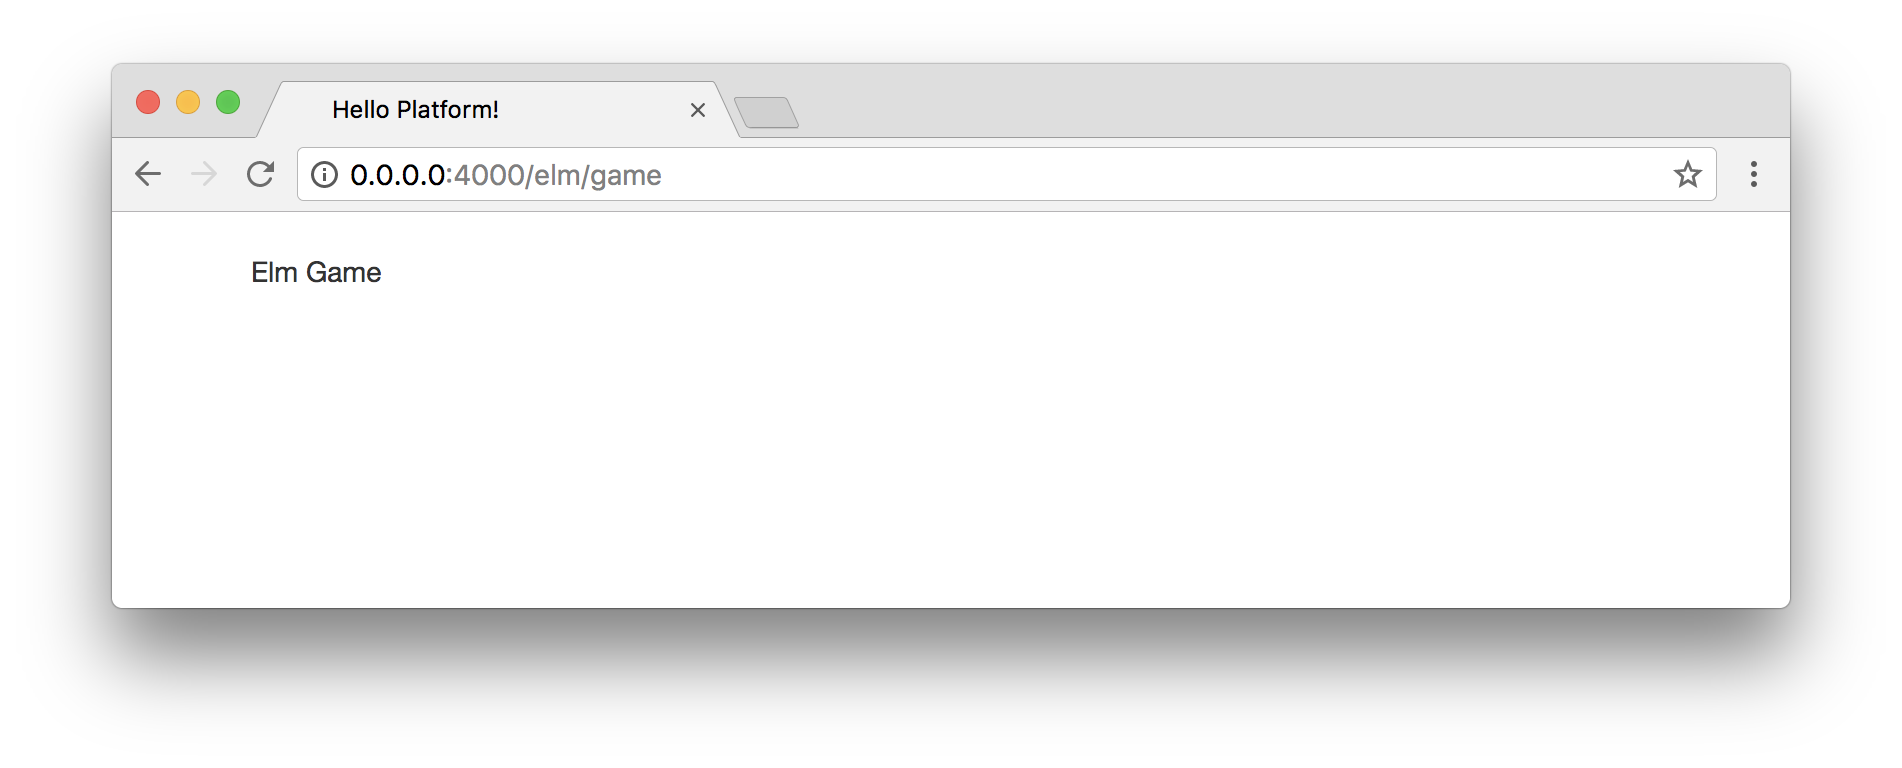
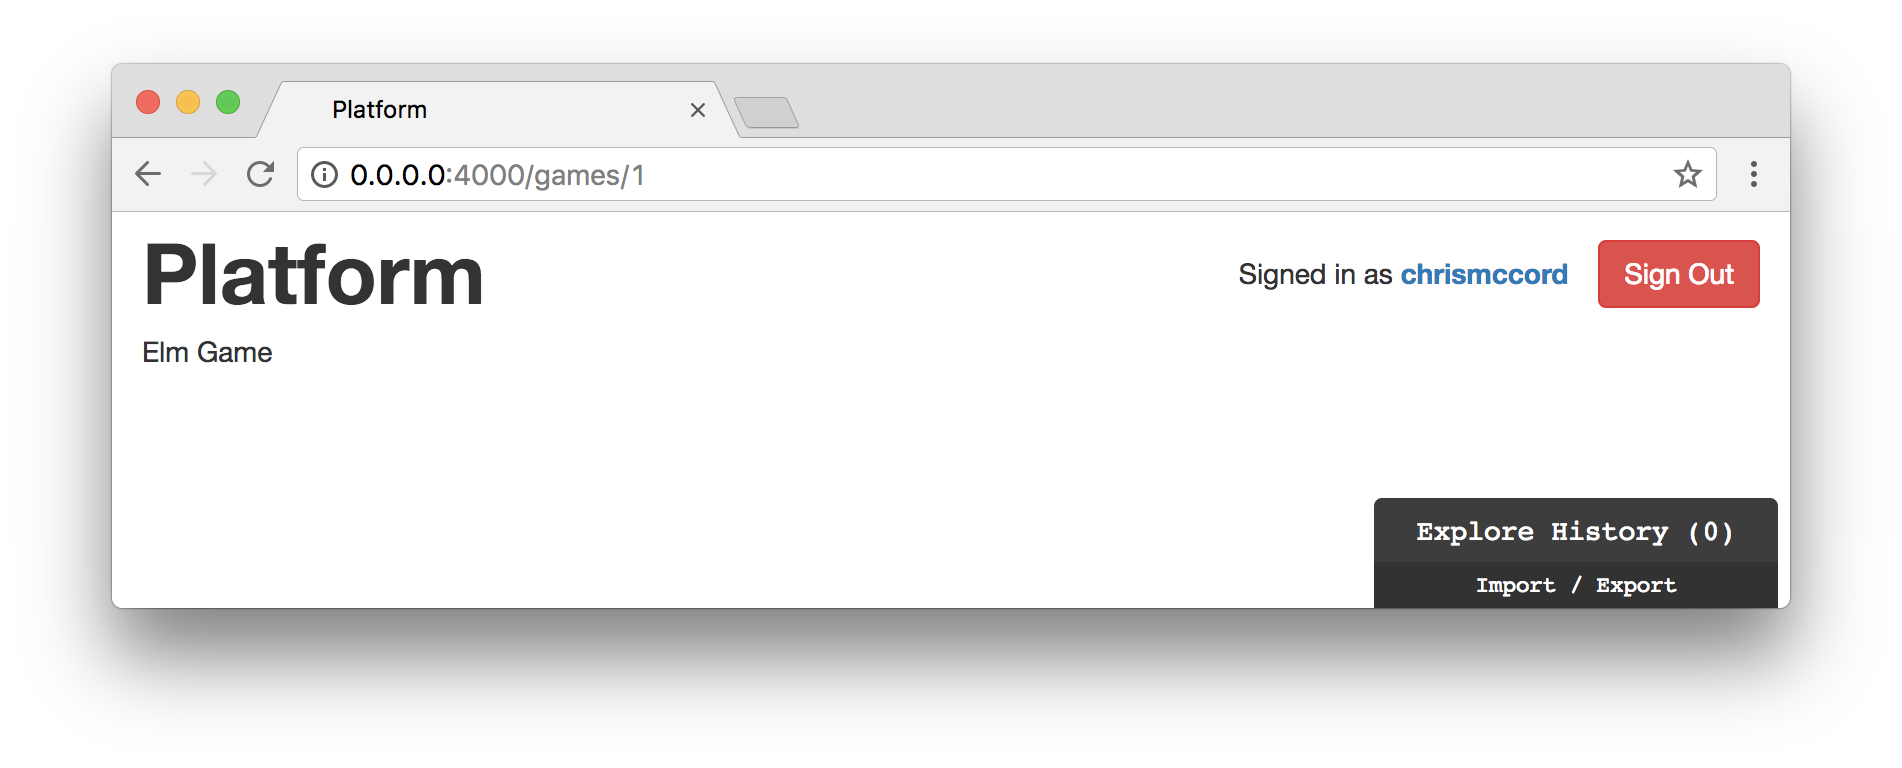
Updating elm game content

diff --git a/manuscript/our_first_game.md b/manuscript/our_first_game.md
@@ -4,18 +4,22 @@ Let's start creating our first minigame with Elm. We want to begin with
 something small and simple that still has the characteristics we want for all
 of our games.
 
-Our initial game should be (really) small, self-contained, interactive, and
-fun. And we'll also want to add a simple scoring mechanism so we can work
-towards tracking player scores and sending that data to our back-end platform.
+Our initial game should be small, self-contained, interactive, and fun. And
+we'll also want to add a simple scoring mechanism so we can work towards
+tracking player scores and sending that data to our back-end platform.
 
 ## Creating an Initial Game File
 
-Inside the `lib/platform/web/elm` folder, let's create a new file named
-`Game.elm`. We can initialize it with the following code so we'll have
+While we were creating the JSON API for our games, we created a sample game
+called `Platformer`. Now, we can use that same title as our Elm module name so
+we can sync up the assets we generate between the front-end and back-end.
+
+Inside the `assets/elm` folder, let's create a new file named
+`Platformer.elm`. We can initialize it with the following code so we'll have
 something to display on the page:
 
 ```elm
-module Game exposing (..)
+module Platformer exposing (..)
 
 import Html exposing (..)
 
@@ -28,114 +32,92 @@ main =
 ## Creating a New Page for Games
 
 On the Phoenix side, we'll need to create a new page where we can display our
-game. We'll start by manually creating a new page and route, and later we'll
-work towards a more flexible approach.
-
-Inside the `lib/platform/web/templates/page` folder, let's create a new file
-called `game.html.eex`. This will be similar to what we did for our Elm home
-page, and this time we'll just be creating a container div element for our Elm
-game. This is all we need to add for the `game.html.eex` file:
+game. Inside the `lib/platform_web/templates` folder, create a new folder
+called `game`. Then, let's create a new file called `show.html.eex`. This will
+be similar to what we did for our Elm home page, and this time we'll create
+another container `div` element for our Elm game. This is all we need to add
+for the `show.html.eex` file:
 
 ```embedded_elixir
-<div class="elm-game-container"></div>
+<div id="elm-game-container"></div>
 ```
 
-Now let's update our `router.ex` file inside the `lib/platform/web` folder.
-For now, we can add a simple route so that users can access our game by going
-to `/elm/game` in the browser. Update the browser scope inside the `router.ex`
-file with the following:
+We'll also need to add to our `lib/platform_web/controllers/game_controller.ex`
+file. We already have a `show/2` function that responds to JSON requests. Now,
+let's add another function called `play/2` just below it to display a game in
+the browser.
 
 ```elixir
-scope "/", Platform.Web do
+def show(conn, %{"id" => id}) do
+  game = Products.get_game!(id)
+  render(conn, "show.json", game: game)
+end
+
+def play(conn, %{"id" => id}) do
+  game = Products.get_game!(id)
+  render(conn, "show.html", game: game)
+end
+```
+
+Now, let's update our `router.ex` file inside the `lib/platform_web` folder.
+For now, we can add a simple route so that users can access our game by going
+to `/games/1` in the browser. Update the `:browser` scope inside the
+`router.ex` file with the following:
+
+```elixir
+scope "/", PlatformWeb do
   pipe_through :browser
 
-  get "/", PlayerController, :new
-  get "/elm", PageController, :index
-  get "/elm/game", PageController, :game
+  get "/", PageController, :index
+  get "/games/:id", GameController, :play
   resources "/players", PlayerController
   resources "/sessions", PlayerSessionController, only: [:new, :create, :delete]
 end
 ```
 
 We'll be able to view the Elm game that we're creating when we visit
-`http://0.0.0.0:4000/elm/game` in our browser, but we still need to take a
+`http://0.0.0.0:4000/games/1` in our browser, but we still need to take a
 couple more steps before this will work.
-
-Let's update our `PageController` with a function that will render our new game
-page. In the `lib/platform/web/controllers` folder, update the
-`page_controller.ex` file with the following:
-
-```elixir
-defmodule Platform.Web.PageController do
-  use Platform.Web, :controller
-
-  plug :authenticate when action in [:index]
-
-  def index(conn, _params) do
-    render conn, "index.html"
-  end
-
-  def game(conn, _params) do
-    render conn, "game.html"
-  end
-
-  defp authenticate(conn, _opts) do
-    if conn.assigns.current_user() do
-      conn
-    else
-      conn
-      |> put_flash(:error, "You must be logged in to access that page.")
-      |> redirect(to: player_path(conn, :new))
-      |> halt()
-    end
-  end
-end
-```
 
 ## Configuring our Game Page
 
-We have our template, route, and controller configured properly. We just have
+We have our template, controller, and route configured properly. We just have
 a couple more small steps to take before we can see it rendered in the browser.
 
 First, we'll need to update our `brunch-config.js` file so that both `Main.elm`
-and `Game.elm` will both be compiled (note that the only change here is on the
-`elmBrunch` line).
+and `Platformer.elm` will both be compiled. Update the `plugins` section of the
+`brunch-config.js` file with the following:
 
 ```javascript
-exports.config = {
-  files: {
-    javascripts: { joinTo: "js/app.js" },
-    stylesheets: { joinTo: "css/app.css" },
-    templates: { joinTo: "js/app.js" }
-  },
-  conventions: { assets: /^(static)/ },
-  paths: {
-    watched: ["../lib/platform/web/elm", "static", "css", "js", "vendor"],
-    public: "../priv/static"
-  },
-  plugins: {
-    babel: { ignore: [/vendor/] },
-    elmBrunch: { elmFolder: "../lib/platform/web/elm", mainModules: ["Main.elm", "Game.elm"], outputFolder: "../../../../assets/vendor" }
-  },
-  modules: { autoRequire: { "js/app.js": ["js/app"] } },
-  npm: { enabled: true }
-};
+plugins: {
+  babel: { ignore: [/vendor/] },
+  elmBrunch: {
+    mainModules: ["elm/Main.elm", "elm/Platformer.elm"],
+    makeParameters: ["--debug"],
+    outputFolder: "../assets/js"
+  }
+},
 ```
 
 Lastly, we can update our `app.js` file to render our game inside the Phoenix
 application. At the bottom of our `assets/js/app.js` file, let's update our
-code to look like this:
+code. Note that we're importing from our `platformer.js` file and then
+embedding our Elm game inside the `#elm-game-container`.
 
 ```javascript
-const elmContainer = document.querySelector(".elm-container");
-const elmGameContainer = document.querySelector(".elm-game-container");
+// Elm
+import Elm from "./main"
+import Game from "./platformer"
+
+const elmContainer = document.querySelector("#elm-container");
+const elmGameContainer = document.querySelector("#elm-game-container");
 
 if (elmContainer) {
   const elmApplication = Elm.Main.embed(elmContainer);
 }
 
 if (elmGameContainer) {
-  const elmGame = Elm.Game.embed(elmGameContainer);
+  const elmGame = Game.Platformer.embed(elmGameContainer);
 }
 ```
 
@@ -154,10 +136,10 @@ little character to work with, and wire up the keyboard for interaction.
 We've already got some experience in the preceding chapters with the Elm
 Architecture, so we're not going to cover it in great detail here. Instead,
 we're going to start by pasting in the following code, which will give us some
-starter code to work with. Add the following to the `Game.elm` file:
+starter code to work with. Add the following to the `Platformer.elm` file:
 
 ```elm
-module Game exposing (..)
+module Platformer exposing (..)
 
 import Html exposing (Html, div, text)
 
@@ -244,13 +226,12 @@ We have all the things we need to get started:
 ## Creating a Game Canvas
 
 Before we can add our game character, we need to create a window where our hero
-(or heroine) can live. We may decide on an alternative approach later, but for
-now let's use SVG to create our game world.
+(or heroine) can live. Let's start using SVG to create our game world.
 
 In order to work with Elm's SVG library, we'll need to install the package and
 import it into our project.
 
-From the command line, let's switch to the `lib/platform/web/elm` folder and
+From the command line, let's switch to the `assets` folder and
 run the following command:
 
 ```shell
@@ -283,12 +264,12 @@ Packages configured successfully!
 ```
 
 Now that we have the package installed, let's import it at the top of our
-`Game.elm` file. We'll import all of the `Svg` functions along with all the
+`Platformer.elm` file. We'll import all the `Svg` functions along with all the
 `Svg.Attributes` functions since we'll be using many of them. Update the top of
-your `Game.elm` file with the following code:
+your `Platformer.elm` file with the following code:
 
 ```elm
-module Game exposing (..)
+module Platformer exposing (..)
 
 import Html exposing (Html, div)
 import Svg exposing (..)
@@ -329,7 +310,7 @@ to take a look online, though, because there are some great SVG learning
 materials and courses available.
 
 Let's add our SVG code to our Elm view, and we'll walk through how it all fits
-together. At the bottom of the `Game.elm` file, add the following:
+together. At the bottom of the `Platformer.elm` file, add the following:
 
 ```elm
 view : Model -> Html Msg
@@ -354,12 +335,10 @@ viewGameWindow =
 ```
 
 We start with a `div` element at the top, which will contain our `svg` element.
-There is some duplication when we add our `width` and `height` attributes in
-two separate places, but for now we'll just keep going so we can get something
-rendered on the page. The `svg` element will contain the `rect` element that
-serves as our small game window. Note that we need to add the same `width` and
-`height` for both of these elements, or else we'd run the risk that the size
-of our rectangle might exceed the size of our surrounding `svg` element.
+The `svg` element will contain the `rect` element that serves as our small game
+window. Note that we need to add the same `width` and `height` for both of
+these elements, or else we'd run the risk that the size of our rectangle might
+exceed the size of our surrounding `svg` element.
 
 Lastly, we add a `stroke` attribute to see a `"black"` line around our game
 window, and a `fill` attribute with an initial value of `"none"`.
